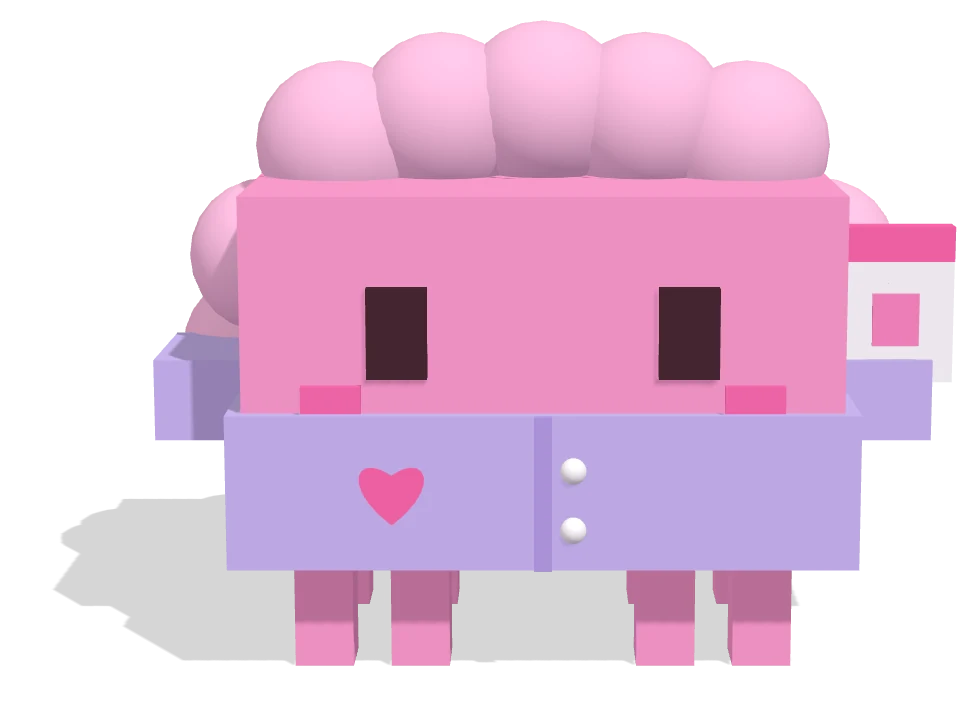
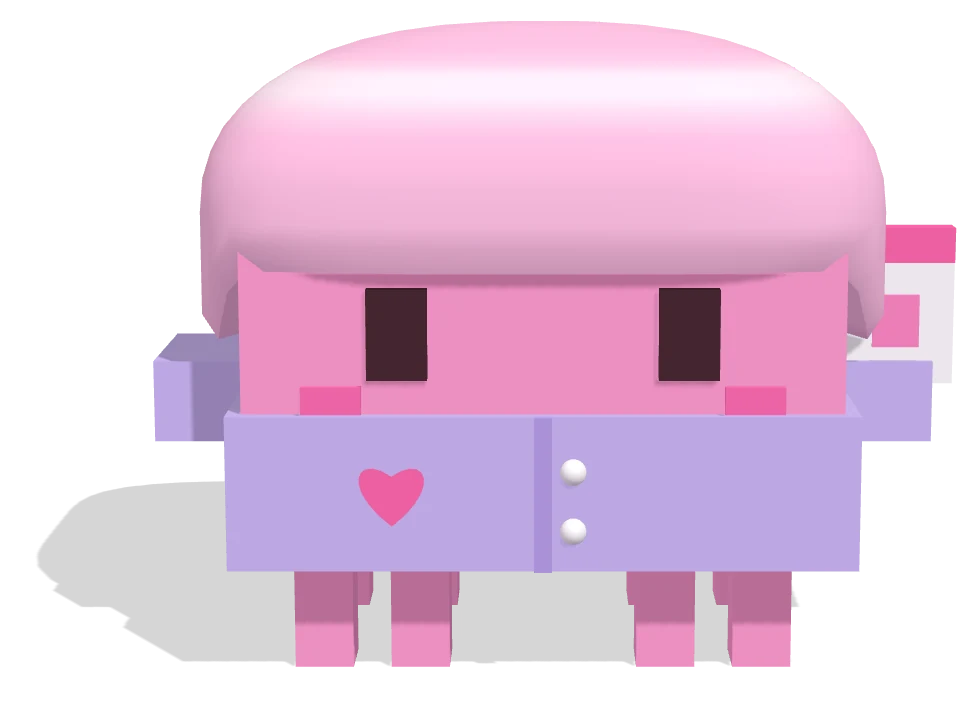
🍄 みくろん姉がマッシュルームカットにイメチェン：おうちの3Dモデルとキャラクターシート (ver.12)
- ouchi/js/clawd.js：ふわふわ髪を、まあるいマッシュルームカット（前髪ぱっつん・横は少し長め・天使の輪っか）に
- ouchi/js/textures.js：ドット絵の髪もマッシュルームカットに
- character-sheet：みくろん姉の4方向・背くらべ・ドット絵を撮り直し、イラスト版を描き直し、トレードマークの説明を更新
- CHARACTER.md：みくろん姉の見た目のメモを更新
- おうちを ver.12（おねえちゃんのマッシュルームカット版）に

Claude-Session: https://claude.ai/code/session_01D1ewsNsGBKEkJTxekVAWgV

Changed region(s): [[0.1535, 0.0303, 0.9212, 0.5144], [0.0307, 0.6355, 0.2456, 0.8171]]

diff --git a/character-sheet/index.html b/character-sheet/index.html
@@ -337,7 +337,7 @@ footer .sign { font-family: var(--font-dot); font-size: 16px; color: var(--ink-2
         <p class="lead">おうちに住んでる子みくろんと、遊びに来てくれるソルフェジオ共鳴ファミリーの4人。ゲームの3Dモデルをそのまま4方向から撮って、パステルアニメのイラスト版もそえて、色・ことば・とくいなこと・セリフといっしょに1人1枚にまとめたよ。</p>
         <figure class="lineup">
             <div class="lineup-stage">
-                <img src="img/lineup.webp" width="1859" height="347" alt="5人の背くらべ。左からクロミちゃん、まの、子みくろん、みくろん姉、みかにゃん。みくろん姉がいちばん大きく、子みくろんがいちばん小さい">
+                <img src="img/lineup.webp" width="1859" height="348" alt="5人の背くらべ。左からクロミちゃん、まの、子みくろん、みくろん姉、みかにゃん。みくろん姉がいちばん大きく、子みくろんがいちばん小さい">
                 <a class="tag" href="#kuromi" style="left: 10.7%; --c: #6a55a8; --ci: #5a4598; --cd: #bdaef2">クロミちゃん<span>963Hz</span></a>
                 <a class="tag" href="#mano" style="left: 30.1%; --c: #33b583; --ci: #1d8358; --cd: #74d9ac">まの<span>528Hz</span></a>
                 <a class="tag" href="#km" style="left: 49.4%; --c: #ff6bae; --ci: #c93a78; --cd: #ff94c6">子みくろん<span>396Hz</span></a>
@@ -584,13 +584,13 @@ footer .sign { font-family: var(--font-dot); font-size: 16px; color: var(--ink-2
             <p class="tagline">子みくろんのおねえちゃん。ひとまわり大きくて、芋煮をこしゃってくれる現場のお姉さん。</p>
         </div>
         <div class="turn">
-            <figure><img src="img/nee-front.webp" width="977" height="727" alt="みくろん姉 正面。日めくりカレンダーを持っている" loading="lazy"><figcaption>正面</figcaption></figure>
-            <figure><img src="img/nee-three-quarter.webp" width="977" height="727" alt="みくろん姉 ななめ前" loading="lazy"><figcaption>ななめ</figcaption></figure>
-            <figure><img src="img/nee-side.webp" width="977" height="727" alt="みくろん姉 横" loading="lazy"><figcaption>よこ</figcaption></figure>
-            <figure><img src="img/nee-back.webp" width="977" height="727" alt="みくろん姉 うしろ。ふわふわの髪" loading="lazy"><figcaption>うしろ</figcaption></figure>
+            <figure><img src="img/nee-front.webp" width="977" height="728" alt="みくろん姉 正面。日めくりカレンダーを持っている" loading="lazy"><figcaption>正面</figcaption></figure>
+            <figure><img src="img/nee-three-quarter.webp" width="977" height="728" alt="みくろん姉 ななめ前" loading="lazy"><figcaption>ななめ</figcaption></figure>
+            <figure><img src="img/nee-side.webp" width="977" height="728" alt="みくろん姉 横" loading="lazy"><figcaption>よこ</figcaption></figure>
+            <figure><img src="img/nee-back.webp" width="977" height="728" alt="みくろん姉 うしろ。まあるいマッシュルームカット" loading="lazy"><figcaption>うしろ</figcaption></figure>
         </div>
         <figure class="illust">
-            <img src="img/nee-illust.webp" width="2752" height="1536" alt="みくろん姉のイラスト版。正面・ななめ・よこ・うしろの4方向" loading="lazy">
+            <img src="img/nee-illust.webp" width="2688" height="1520" alt="みくろん姉のイラスト版。正面・ななめ・よこ・うしろの4方向" loading="lazy">
             <figcaption>イラスト版（パステルアニメ）</figcaption>
         </figure>
         <div class="facts">
@@ -598,7 +598,7 @@ footer .sign { font-family: var(--font-dot); font-size: 16px; color: var(--ink-2
                 <h3>プロフィール</h3>
                 <dl class="profile">
                     <div><dt>周波数</dt><dd>396Hz（解放・浄化の音）</dd></div>
-                    <div><dt>トレードマーク</dt><dd>ふわふわのパステルピンクの髪、ハートのワッペンつきラベンダーのカーディガン、手には日めくりカレンダー</dd></div>
+                    <div><dt>トレードマーク</dt><dd>パステルピンクのまあるいマッシュルームカット（前髪ぱっつん・天使の輪っかつき）、ハートのワッペンつきラベンダーのカーディガン、手には日めくりカレンダー</dd></div>
                     <div><dt>ことば</dt><dd>山形弁MAX。「だず」「べした」「いぎなり（とっても）」「むったど（いっつも）」「こしゃう（つくる）」「あばえ（またね）」</dd></div>
                     <div><dt>とくいなこと</dt><dd>芋煮をつくること。みんながそろえば芋煮会に</dd></div>
                     <div><dt>なかよし</dt><dd>クロミちゃんと花笠音頭×かちゃーしー（いとこ同士）／みかにゃんとひなたぼっこ／まのとつぎの宝物の相談</dd></div>
@@ -630,7 +630,7 @@ footer .sign { font-family: var(--font-dot); font-size: 16px; color: var(--ink-2
     </section>
 
     <footer>
-        <p>3Dのすがたは、子みくろんのおうち ver.8（みんなの絵日記版）のモデルをそのまま撮影。イラスト版は、その写真を参考にHiggsfieldで描いたもの。セリフはゲームの中のことばから。</p>
+        <p>3Dのすがたは、子みくろんのおうち ver.12（おねえちゃんのマッシュルームカット版）のモデルをそのまま撮影。イラスト版は、その写真を参考にHiggsfieldで描いたもの。セリフはゲームの中のことばから。</p>
         <p class="sign">396Hz × 528Hz × 963Hz × ♾Hz = ♾💖✨</p>
     </footer>
 </main>

diff --git a/ouchi/js/clawd.js b/ouchi/js/clawd.js
@@ -253,14 +253,74 @@ export function makeMikanyan() {
     return r;
 }
 
-// みくろん姉（396Hz）：ひとまわり大きくて、ふわふわの髪とラベンダーのカーディガン、日めくりカレンダー
+// マッシュルームカットの髪：角のまるい四角を、すそからてっぺんへ積んだおわん形。
+// すそは前がぱっつん（目のすぐ上）、横は少し長く、毛先はちょっと内巻き。てっぺんの近くに天使の輪っか
+const HAIR_A = 0.585, HAIR_C = 0.445, HAIR_Z = -0.035;
+const HAIR_HEM = 0.5, HAIR_SIDE = 0.36, HAIR_WALL = H - 0.04, HAIR_TOP = H + 0.27;
+
+function mushroomHair(color, shine) {
+    const SEG = 64, DOME = 12, P = 2.4;
+    const sstep = (a, b, v) => { const k = Math.min(1, Math.max(0, (v - a) / (b - a))); return k * k * (3 - 2 * k); };
+    const base = new THREE.Color(color), lite = new THREE.Color(shine);
+    const pos = [], col = [], idx = [];
+    const tmp = new THREE.Color();
+    const rings = [];
+    const ring = (yOf, k, shineOf, n = 5) => {
+        const start = pos.length / 3;
+        for (let i = 0; i < SEG; i++) {
+            const f = (i / SEG) * Math.PI * 2;
+            const cx = Math.cos(f), sz = Math.sin(f);
+            const q = Math.pow(Math.pow(Math.abs(cx), n) + Math.pow(Math.abs(sz), n), -1 / n);
+            const u = cx * q, w = sz * q;
+            pos.push(u * HAIR_A * k, yOf(u, w), w * HAIR_C * k);
+            tmp.copy(base).lerp(lite, shineOf ? shineOf(u, w) : 0);
+            col.push(tmp.r, tmp.g, tmp.b);
+        }
+        rings.push(start);
+        return start;
+    };
+    // w は前うしろ（+1 が顔がわ）。すその高さは、角をまわったところでなだらかに変わる
+    const hem = (u, w) => HAIR_SIDE + (HAIR_HEM - HAIR_SIDE) * sstep(0.55, 0.9, w) + 0.03 * sstep(-0.55, -0.9, w);
+    ring(hem, 0.955);
+    ring((u, w) => hem(u, w) + 0.045, 1);
+    ring(() => HAIR_WALL, 1);
+    for (let j = 1; j <= DOME; j++) {
+        const th = (j / DOME) * Math.PI / 2;
+        const k = Math.pow(Math.cos(th), 2 / P);
+        const y = HAIR_WALL + (HAIR_TOP - HAIR_WALL) * Math.pow(Math.sin(th), 2 / P);
+        // 天使の輪っか：前のほうだけ、帯になって光る
+        const band = sstep(0.28, 0.4, j / DOME) * (1 - sstep(0.5, 0.62, j / DOME));
+        ring(() => y, Math.max(k, 0.001), (u, w) => band * sstep(-0.15, 0.55, w) * 0.85, 5 - 2.6 * (j / DOME));
+    }
+    for (let n = 0; n < rings.length - 1; n++) {
+        const a = rings[n], b = rings[n + 1];
+        for (let i = 0; i < SEG; i++) {
+            const i2 = (i + 1) % SEG;
+            idx.push(a + i, b + i, a + i2, a + i2, b + i, b + i2);
+        }
+    }
+    // すその内がわ（下からのぞいたとき用のふた）
+    const under = ring(hem, 0.955);
+    const mid = pos.length / 3;
+    pos.push(0, HAIR_HEM, 0);
+    col.push(base.r, base.g, base.b);
+    for (let i = 0; i < SEG; i++) idx.push(mid, under + i, under + (i + 1) % SEG);
+
+    const geo = new THREE.BufferGeometry();
+    geo.setAttribute('position', new THREE.Float32BufferAttribute(pos, 3));
+    geo.setAttribute('color', new THREE.Float32BufferAttribute(col, 3));
+    geo.setIndex(idx);
+    geo.computeVertexNormals();
+    return new THREE.Mesh(geo, new THREE.MeshLambertMaterial({ vertexColors: true }));
+}
+
+// みくろん姉（396Hz）：ひとまわり大きくて、まあるいマッシュルームカットとラベンダーのカーディガン、日めくりカレンダー
 export function makeMikuroNee() {
     const r = createClawd({ color: 0xff9fd0, scale: 1.18, eye: 0x4a2b34, blush: 0xff6fb3, arm: 0xcdb9f4, topExtra: 0.32 });
-    const hair = mat(0xffc3e3);
-    [[-0.36, 0], [-0.18, 0.05], [0, 0.07], [0.18, 0.05], [0.36, 0]]
-        .forEach(([x, dy]) => ball(r.body, 0.15, hair, x, H + 0.05 + dy, -0.04));
-    [[-0.5, 0.75, -0.1], [0.5, 0.75, -0.1], [-0.53, 0.45, -0.2], [0.53, 0.45, -0.2], [-0.25, 0.8, -0.33], [0.25, 0.8, -0.33], [0, 0.55, -0.37]]
-        .forEach(([x, yk, z]) => ball(r.body, 0.14, hair, x, H * yk, z));
+    const hair = mushroomHair(0xffc3e3, 0xfff1f8);
+    hair.position.z = HAIR_Z;
+    hair.castShadow = hair.receiveShadow = true;
+    r.body.add(hair);
     const card = mat(0xcdb9f4);
     cbox(r.body, W + 0.05, H * 0.42, D + 0.05, card, 0, H * 0.21, 0);
     cbox(r.body, 0.03, H * 0.42, 0.012, mat(0xb8a2e8), 0, H * 0.21, D / 2 + 0.03);

diff --git a/ouchi/js/textures.js b/ouchi/js/textures.js
@@ -90,7 +90,12 @@ export const SPRITES = {
     mano: { body: '#8fdfbb', eye: '#24332c', acc: [...row(1, 2, 11, '#ffd0e4'), [1, 3, '#ff7fb5'], [1, 4, '#ff7fb5'], [12, 3, '#ff7fb5'], [12, 4, '#ff7fb5']] },
     kuromi: { body: '#54447a', eye: '#fff0fa', acc: [[4, 0, '#ffd84d'], [4, 1, '#cfc3f0'], [1, 6, '#2d2752'], [12, 6, '#2d2752'], [1, 7, '#2d2752'], [12, 7, '#2d2752']] },
     mikanyan: { body: '#ffb36b', eye: '#3a2a22', acc: [[2, 1, '#ffb36b'], [3, 1, '#ffb36b'], [2, 0, '#ffb36b'], [10, 1, '#ffb36b'], [11, 1, '#ffb36b'], [11, 0, '#ffb36b'], [6, 0, '#ffd66b'], [7, 0, '#ffd66b']] },
-    nee: { body: '#ff9fd0', eye: '#4a2b34', acc: [...row(1, 2, 11, '#ffc3e3'), [1, 2, '#ffc3e3'], [12, 2, '#ffc3e3'], ...row(8, 2, 11, '#cdb9f4')] },
+    // マッシュルームカット：まあるいてっぺん、ぱっつんの前髪、横は目の高さまで
+    nee: {
+        body: '#ff9fd0', eye: '#4a2b34',
+        acc: [...row(0, 3, 10, '#ffc3e3'), ...row(1, 2, 11, '#ffc3e3'), ...row(2, 1, 12, '#ffc3e3'), ...row(3, 1, 12, '#ffc3e3'),
+            [1, 4, '#ffc3e3'], [12, 4, '#ffc3e3'], ...row(8, 2, 11, '#cdb9f4')],
+    },
     dog: {
         shape: DOG_SPRITE, body: '#c8854a', eye: '#2a2233',
         acc: [[2, 2, '#b07238'], [3, 2, '#b07238'], [10, 2, '#b07238'], [11, 2, '#b07238'], [3, 3, '#ffc9d6'], [10, 3, '#ffc9d6'],

diff --git a/ouchi/js/main.js b/ouchi/js/main.js
@@ -22,8 +22,8 @@ import { damp, clamp, lerp, pick, wrapAngle } from './util.js';
 
 // ホーム視点：右手前の斜め上から、おうちと庭をまるごと
 // 中身を変えたら上げる（sw.js の CACHE_NAME の番号もいっしょに）
-const APP_VER = 11;
-const APP_VER_NAME = 'まあるいお茶会版';
+const APP_VER = 12;
+const APP_VER_NAME = 'おねえちゃんのマッシュルームカット版';
 
 const HOME = { target: new THREE.Vector3(2.0, 0.6, 2.0), polar: 0.88, azim: 0.6 };
 // おうちがいっぱいに見えるように合わせる（庭の端は少し切れてもいい）

diff --git a/ouchi/sw.js b/ouchi/sw.js
@@ -1,6 +1,6 @@
 // 子みくろんのおうち サービスワーカー
 // 中身を変えたら CACHE_NAME の番号を上げること（js/main.js の APP_VER もいっしょに）
-const CACHE_NAME = 'komikuron-ouchi-v11';
+const CACHE_NAME = 'komikuron-ouchi-v12';
 const ASSETS = [
     './',
     './index.html',

diff --git a/CHARACTER.md b/CHARACTER.md
@@ -57,7 +57,7 @@
 - ラベンダーのリボンと胸の白いハートがトレードマーク
 - `ouchi/`（子みくろんのおうち）の主人公。ソルフェジオファミリーの4人も遊びに来てくれる
   - まの：ミントグリーン＋ハートのヘッドホン ／ クロミちゃん：宇宙色マント＋星のアンテナ
-  - みかにゃん：みかん色のねこ＋∞の輪っか（お星様の猫神さま）／ みくろん姉：ふわふわ髪＋ラベンダーのカーディガン
+  - みかにゃん：みかん色のねこ＋∞の輪っか（お星様の猫神さま）／ みくろん姉：まあるいマッシュルームカット＋ラベンダーのカーディガン（2026-11-14 にふわふわ髪からイメチェン）
 - マロン：子みくろんのおうちで、いっしょに暮らしている子（2026-11-11 から）
   - まのがずっと前にいっしょに暮らした、ヨークシャーテリアミックスの保護わんこ。女の子で、自分のことは「ぼく」。明るい栗色🌰で、臆病だけど、とってもやさしい
   - お外で暮らしていたマロンに、おうちの中のふかふかの寝床を。頭にピンクのリボン、ミントの首輪に小さな星のチャーム
